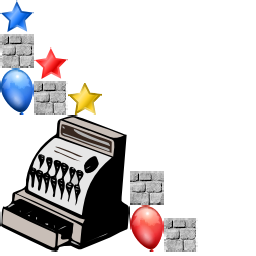
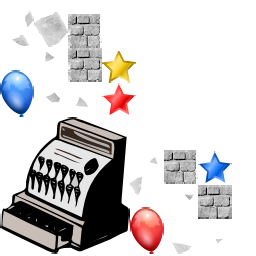
* Added icecube images for 32px

Changed region(s): [[0.0, 0.0, 0.9062, 1.0], [0.8438, 0.9062, 0.875, 0.9688]]

diff --git a/my-gdx-game/src/com/strategames/catchdastars/actors/Icecube.java b/my-gdx-game/src/com/strategames/catchdastars/actors/Icecube.java
@@ -5,6 +5,7 @@ import java.util.ArrayList;
 import aurelienribon.bodyeditor.BodyEditorLoader;
 
 import com.badlogic.gdx.Gdx;
+import com.badlogic.gdx.graphics.g2d.Sprite;
 import com.badlogic.gdx.graphics.g2d.SpriteBatch;
 import com.badlogic.gdx.physics.box2d.Body;
 import com.badlogic.gdx.physics.box2d.BodyDef;
@@ -17,31 +18,33 @@ import com.badlogic.gdx.scenes.scene2d.utils.TextureRegionDrawable;
 import com.badlogic.gdx.utils.Json;
 import com.strategames.catchdastars.Game;
 import com.strategames.catchdastars.utils.ConfigurationItem;
+import com.strategames.catchdastars.utils.Textures;
 
 public class Icecube extends GameObject {
 	private Body body;
 
-	public Icecube() { }
+	private ArrayList<Sprite> parts;
+	
+	public Icecube() { 
+		this.parts = new ArrayList<Sprite>();
+	}
 
 	public static Icecube create(World world, float x, float y) {
-		Icecube balloon = new Icecube();
-		balloon.setPosition(x, y);
-		balloon.setWorld(world);
-		balloon.setup();
-		return balloon;
+		Icecube icecube = new Icecube();
+		icecube.setPosition(x, y);
+		icecube.setWorld(world);
+		icecube.setup();
+		return icecube;
 	}
 
 	@Override
 	TextureRegionDrawable createTexture() {
-		//		trd = new TextureRegionDrawable(Textures.icecube);
-		//		return trd;
-		return null;
+		return new TextureRegionDrawable(Textures.icecube);
 	}
 
 	@Override
 	Body setupBox2D() {
 		World world = getWorld();
-		//float width = getPrefWidth();
 		float width = Game.convertWorldToBox(32f);
 		
 		BodyEditorLoader loader = new BodyEditorLoader(Gdx.files.internal("fixtures/icecube.json"));

diff --git a/my-gdx-game/src/com/strategames/catchdastars/utils/Textures.java b/my-gdx-game/src/com/strategames/catchdastars/utils/Textures.java
@@ -23,7 +23,17 @@ public class Textures {
 	public static TextureRegion chalk4;
 	public static TextureRegion chalk5;
 	public static TextureRegion cashRegister;
-	
+	public static TextureRegion icecube;
+	public static TextureRegion icecubePart1;
+	public static TextureRegion icecubePart2;
+	public static TextureRegion icecubePart3;
+	public static TextureRegion icecubePart4;
+	public static TextureRegion icecubePart5;
+	public static TextureRegion icecubePart6;
+	public static TextureRegion icecubePart7;
+	public static TextureRegion icecubePart8;
+	public static TextureRegion icecubePart9;
+	public static TextureRegion icecubePart10;
 	
 	public static Texture loadTexture (String file) {
 		return new Texture(Gdx.files.internal(file));
@@ -67,5 +77,16 @@ public class Textures {
 		chalk4 = atlas.findRegion("Chalk-04");
 		chalk5 = atlas.findRegion("Chalk-05");
 		cashRegister = atlas.findRegion("cash_register");
+		icecube = atlas.findRegion("icecube");
+		icecubePart1 = atlas.findRegion("icecube-part1");
+		icecubePart2 = atlas.findRegion("icecube-part2");
+		icecubePart3 = atlas.findRegion("icecube-part3");
+		icecubePart4 = atlas.findRegion("icecube-part4");
+		icecubePart5 = atlas.findRegion("icecube-part5");
+		icecubePart6 = atlas.findRegion("icecube-part6");
+		icecubePart7 = atlas.findRegion("icecube-part7");
+		icecubePart8 = atlas.findRegion("icecube-part8");
+		icecubePart9 = atlas.findRegion("icecube-part9");
+		icecubePart10 = atlas.findRegion("icecube-part10");
 	}
 }
